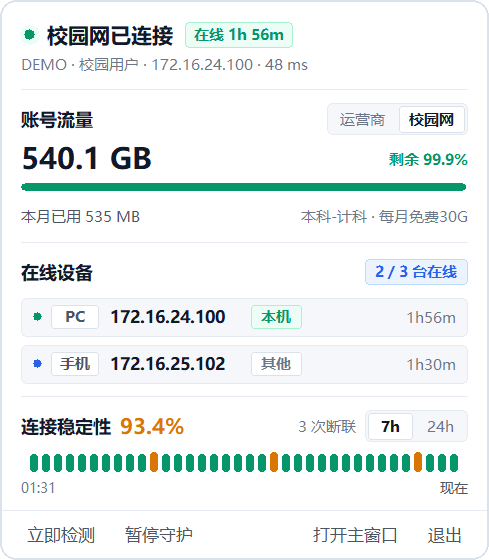
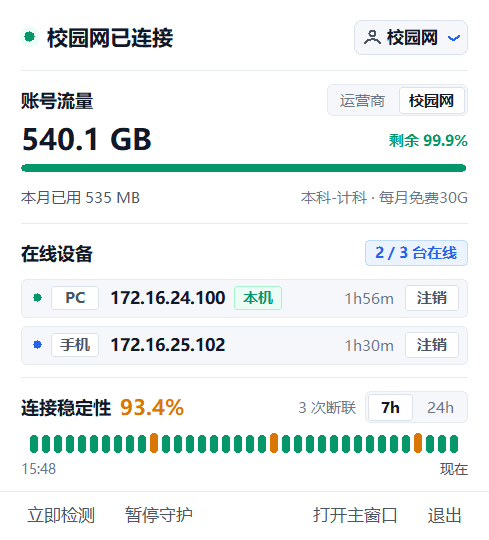
docs(v0.2.2): refresh bilingual README, concise changelog, and v0.2.2 screenshots

diff --git a/src/ui/mod.rs b/src/ui/mod.rs
@@ -269,14 +269,19 @@ impl GuardApp {
         let palette = Palette::of(ui_prefs.theme);
         theme::apply_theme(&cc.egui_ctx, &palette);
 
+        #[cfg(debug_assertions)]
+        let mock_creds = std::env::var_os("GXNU_SCREENSHOT_OUT").is_some();
+        #[cfg(not(debug_assertions))]
+        let mock_creds = false;
+
         let mut account_creds = HashMap::new();
         for acc in &deps.settings.accounts {
             account_creds.insert(
                 acc.id.clone(),
-                credentials::has_credential_for(&acc.id, &acc.student_id),
+                mock_creds || credentials::has_credential_for(&acc.id, &acc.student_id),
             );
         }
-        let legacy_cred_account = if deps.settings.accounts.is_empty() {
+        let legacy_cred_account = if !mock_creds && deps.settings.accounts.is_empty() {
             credentials::load(credentials::LEGACY_CREDENTIAL_TARGET)
                 .ok()
                 .flatten()
@@ -538,11 +543,16 @@ impl GuardApp {
     }
 
     fn refresh_account_creds(&mut self) {
+        #[cfg(debug_assertions)]
+        let mock_creds = self.qa_shot_out.is_some();
+        #[cfg(not(debug_assertions))]
+        let mock_creds = false;
+
         self.account_creds.clear();
         for acc in &self.settings.accounts {
             self.account_creds.insert(
                 acc.id.clone(),
-                credentials::has_credential_for(&acc.id, &acc.student_id),
+                mock_creds || credentials::has_credential_for(&acc.id, &acc.student_id),
             );
         }
     }

diff --git a/src/updater.rs b/src/updater.rs
@@ -448,8 +448,9 @@ fn check_for_updates_with_bases(
         {
             Ok(resp) if resp.status() == 200 => {
                 saw_network_ok = true;
-                if let Ok(body) = resp.into_string() {
-                    if let Ok(manifest) = serde_json::from_str::<LatestManifest>(&body) {
+                if let Ok(raw_body) = resp.into_string() {
+                    let body = raw_body.trim_start_matches('\u{feff}');
+                    if let Ok(manifest) = serde_json::from_str::<LatestManifest>(body) {
                         if let Some(info) = release_from_manifest(
                             current_version,
                             manifest,
@@ -458,7 +459,7 @@ fn check_for_updates_with_bases(
                         ) {
                             return Ok(Some(info));
                         }
-                        let ver = normalize_version_str(&body_version_hint(&body));
+                        let ver = normalize_version_str(&body_version_hint(body));
                         if !ver.is_empty() && !is_newer_stable_version(current_version, &ver) {
                             return Ok(None);
                         }

diff --git a/src/config.rs b/src/config.rs
@@ -38,14 +38,15 @@ impl SettingsStore {
     }
 
     pub fn load_strict(&self) -> io::Result<Settings> {
-        let text = std::fs::read_to_string(&self.path)?;
+        let raw = std::fs::read_to_string(&self.path)?;
+        let text = raw.trim_start_matches('\u{feff}');
         if !text.trim_start().starts_with('{') {
             return Err(io::Error::new(
                 io::ErrorKind::InvalidData,
                 "配置应为 JSON 对象",
             ));
         }
-        Ok(serde_json::from_str::<Settings>(&text)?.normalized())
+        Ok(serde_json::from_str::<Settings>(text)?.normalized())
     }
 
     fn stage(&self, settings: &Settings) -> io::Result<tempfile::NamedTempFile> {

diff --git a/src/tray_flyout.rs b/src/tray_flyout.rs
@@ -4024,7 +4024,6 @@ mod tests {
                 SnapshotOverlay::Dropdown => Some(HitTarget::SelectAccount(1)),
                 SnapshotOverlay::VpnModal => Some(HitTarget::ConfirmVpnSwitch),
                 SnapshotOverlay::LocalKickModal => Some(HitTarget::ConfirmLocalKick),
-                SnapshotOverlay::None if dark => Some(HitTarget::KickDevice(1)),
                 SnapshotOverlay::None => None,
             },
             tracking_mouse: false,

diff --git a/README.md b/README.md
@@ -2,17 +2,17 @@
   <img src="docs/images/app-icon.png" width="88" height="88" alt="GXNU 校园网守护助手图标">
 </p>
 <h1 align="center">GXNU 校园网守护助手</h1>
-<p align="center">广西师范大学校园网（Dr.COM）Windows 轻量托盘工具 —— 断网自动重连、流量与在线设备直查、多账号一键切换</p>
+<p align="center">广西师范大学校园网（Dr.COM）Windows 轻量托盘工具 —— 断网自动重连、流量与在线设备管理、多账号一键切换</p>
 <p align="center"><strong>简体中文</strong> · <a href="README.en.md">English</a></p>
 <p align="center">
-  <a href="https://github.com/junkaih2019/gxnu-campus-net-helper/releases/latest"><strong>⬇ 下载 Windows x64 便携版</strong></a>
+  <a href="https://github.com/junkaih2019/gxnu-campus-net-helper/releases/latest"><strong>⬇ 下载 Windows x64 单文件版</strong></a>
   &nbsp;·&nbsp; <a href="CHANGELOG.md">更新记录</a>
   &nbsp;·&nbsp; <a href="docs/CONFIGURATION.md">配置说明</a>
   &nbsp;·&nbsp; <a href="docs/ARCHITECTURE.md">架构设计</a>
   &nbsp;·&nbsp; <a href="LICENSE">MIT 许可证</a>
 </p>
 <p align="center">
-  <sub>Windows 10 / 11 x64 · 绿色单文件 · 免安装免管理员 · 支持校园网 / 电信 / 联通 / 移动出口</sub>
+  <sub>Windows 10 / 11 x64 · 绿色单文件免安装 · 支持应用内自动更新 · 支持校园网 / 电信 / 联通 / 移动出口</sub>
 </p>
 
 ---
@@ -33,7 +33,7 @@
 
 <table>
   <tr>
-    <th align="center">🖱 左键单击 · 竖版快捷浮窗</th>
+    <th align="center">🖱 左键单击 · 竖版快捷浮窗（支持切号与踢线）</th>
     <th align="center">🖱 右键单击 · 快捷菜单</th>
   </tr>
   <tr>
@@ -61,9 +61,9 @@
 | :---: | :---: |
 | [![浅色主窗口](docs/images/main-window-light.png)](docs/images/main-window-light.png) | [![深色主窗口](docs/images/main-window.png)](docs/images/main-window.png) |
 
-| 校园网额度与多终端并发视图 | 设置中心（多账号管理） |
+| 校园网额度与多终端管理视图 | 设置中心（多账号管理） |
 | :---: | :---: |
-| [![校园网额度与多终端并发视图](docs/images/main-window-campus.png)](docs/images/main-window-campus.png) | [![设置中心多账号管理](docs/images/settings-dark.png)](docs/images/settings-dark.png) |
+| [![校园网额度与多终端管理视图](docs/images/main-window-campus.png)](docs/images/main-window-campus.png) | [![设置中心多账号管理](docs/images/settings-dark.png)](docs/images/settings-dark.png) |
 
 </details>
 
@@ -71,25 +71,25 @@
 
 ## 💡 核心功能与优势
 
-- 🔄 **断网无感重连**：自动监测网络状态，睡眠唤醒、插拔网线、切换 Wi-Fi 或认证过期时秒级自动重登。
-- 📊 **流量与在线设备直查**：直连校园网自助服务，一键切换 **运营商实际吞吐 / 校园网套餐余量**，实时查看当前在线终端与本机 IP。
-- ⚡ **托盘左键快捷浮窗**：单击任务栏图标秒弹原生圆角浮窗，不开主窗口也能一屏速览流量、设备与连接稳定性。
-- 👥 **多账号一键切号**：支持保存多个校园网账号与自定义备注（如「宿舍联通」「实验室」），顶栏下拉即可自动下线并切号重连。
-- 📈 **连接稳定性时间轴**：以 `1h / 7h / 24h` 胶囊时间轴记录在线率，悬停黄格即可查看掉线时间与原因。
-- 🛡 **代理兼容 & 凭据安全**：开启 Clash / Mihomo（含 TUN 模式）照常直连认证；密码加密存入 Windows 凭据管理器，绝不明文落盘。
-- 🪶 **极轻后台常驻**：Rust 原生单文件，关闭主窗口即彻底释放图形界面内存，后台仅保留纯 Win32 托盘静默守护。
+- 🔄 **断网无感重连**：自动监测网络状态，睡眠唤醒、插拔网线、切换 Wi-Fi 或认证过期时秒级自动重登；错误原因全中文直观提示。
+- 📊 **流量与在线设备管理**：直连校园网自助服务，一键切换 **运营商实际吞吐 / 校园网套餐余量**；实时展示在线终端，支持在主界面或托盘浮窗**一键注销占线设备**。
+- ⚡ **托盘左键快捷浮窗**：单击任务栏图标秒弹原生圆角浮窗，无需打开主窗口即可切账号、看流量、踢占线设备与查看连接稳定性。
+- 👥 **多账号秒切 & 防封保护**：支持保存多个账号与自定义备注（保存前自动无损验密）；切换到「校园网」出口前自动弹出 VPN / 代理关闭提醒，防止账号被封禁。
+- 📈 **连接稳定性时间轴**：以 `1h / 7h / 24h` 胶囊时间轴记录在线率，悬停黄格即可查看掉线时刻与原因。
+- ⬆ **应用内原位自动更新**：自动检查 GitHub Release 新版本，点击即可完成 SHA-256 校验下载并原位替换重启，无损保留全部账号与自启设置。
+- 🛡 **代理兼容 & 极轻常驻**：开启 Clash / Mihomo（含 TUN 模式）照常直连认证；密码加密存入 Windows 凭据管理器；关闭主窗口即释放全部 GUI 内存，后台仅保留纯 Win32 轻守护。
 
 ---
 
 ## 🚀 快速开始
 
-1. **下载运行**：前往 [Releases](https://github.com/junkaih2019/gxnu-campus-net-helper/releases/latest) 下载最新 ZIP，解压到**固定目录**，双击运行 `GXNU 校园网守护助手.exe`。
-   > 💡 首次运行若弹出 Windows SmartScreen 提示，点击 **更多信息 → 仍要运行** 即可（个人开源单文件未附商业代码签名，可通过随包 `.sha256` 校验完整性）。
-2. **添加账号**：首次启动会自动打开 **设置 → 账号管理**，填入校园网学号、密码并选择运营商出口，点击 **保存并开始守护**。
+1. **下载运行**：前往 [Releases](https://github.com/junkaih2019/gxnu-campus-net-helper/releases/latest) 下载最新单文件 **`gxnu-campus-net-helper-v0.2.2.exe`**，放入**固定文件夹**后直接双击运行（免安装、免解压）。
+   > 💡 首次运行若弹出 Windows SmartScreen 提示，点击 **更多信息 → 仍要运行** 即可（个人开源单文件未附商业代码签名，可通过随附 `SHA256SUMS.txt` 校验完整性）。
+2. **添加账号**：首次启动会自动打开 **设置 → 账号管理**，填入校园网学号、密码并选择出口（校园网 / 电信 / 联通 / 移动），点击 **保存并开始守护**。
 3. **日常使用**：
-   - **平时直接关掉主窗口（`×`）**，程序会在托盘极轻常驻；
+   - **平时直接关闭主窗口（`×`）**，程序会在系统托盘极轻常驻；
    - **左键单击**托盘图标秒开快捷浮窗，**左键双击**打开完整主窗口，**右键单击**呼出快捷菜单；
-   - 如需开机自启，在主窗口右上角 **设置 → 监控与自启** 中勾选并保存即可。
+   - 如需开机自启，在 **设置 → 监控与自启** 中勾选「开机自动启动到托盘」并保存即可。
 
 ### 托盘状态指示
 
@@ -102,11 +102,11 @@
 ## ❓ 常见问题
 
 - **为什么账号流量有「运营商」和「校园网」两个切换项？**  
-  师大电信/联通/移动宽带出口通常不限流量，而自助服务套餐余量仅统计「校园网出口」额度。程序默认匹配你当前账号的出口视角，也可随时点击右上角一键切换。
+  师大电信/联通/移动宽带出口通常不限流量，而自助服务套餐余量仅统计「校园网」出口额度。程序默认匹配当前账号出口视角，也可随时点击右上角一键切换。
 - **开着 Clash / Mihomo 代理（或 TUN 模式）会影响自动登录吗？**  
-  不会。探测、认证与自助服务查询均绕过系统代理直连，并能穿透虚拟网卡识别真实校园网 IP。
+  在电信/联通/移动出口下不会，探测、认证与自助服务查询均绕过系统代理直连并穿透虚拟网卡识别真实校园网 IP。但使用**「校园网」出口**时请按弹窗提醒先关闭 VPN / 代理软件，避免触发学校安全监测被封号。
 - **账号密码存在哪里？如何升级或卸载？**  
-  密码由 Windows 凭据管理器加密保存，配置与日志位于 `%LOCALAPPDATA%\GXNUCampusLogin\`。升级时先退出托盘旧版再替换 EXE 即可自动继承数据；卸载时关闭开机自启、退出程序并删除 EXE 与上述目录即可。
+  密码由 Windows 凭据管理器加密保存，配置与日志位于 `%LOCALAPPDATA%\GXNUCampusLogin\`。**升级**直接点击主窗口顶栏的新版本提示（或在「设置 → 监控与自启 → 检查更新」）即可一键原位更新；**卸载**只需关闭开机自启、右键托盘退出程序，再删除 `.exe` 与上述目录即可。
 
 ---
 

diff --git a/README.en.md b/README.en.md
@@ -2,17 +2,17 @@
   <img src="docs/images/app-icon.png" width="88" height="88" alt="GXNU Campus Network Helper icon">
 </p>
 <h1 align="center">GXNU Campus Network Helper</h1>
-<p align="center">A lightweight Windows tray app for Guangxi Normal University’s Dr.COM campus network — auto-reconnect, live traffic & device sync, and 1-click multi-account switching</p>
+<p align="center">A lightweight Windows tray app for Guangxi Normal University’s Dr.COM campus network — auto-reconnect, live traffic & device management, and 1-click multi-account switching</p>
 <p align="center"><a href="README.md">简体中文</a> · <strong>English</strong></p>
 <p align="center">
-  <a href="https://github.com/junkaih2019/gxnu-campus-net-helper/releases/latest"><strong>⬇ Download Portable Windows x64</strong></a>
+  <a href="https://github.com/junkaih2019/gxnu-campus-net-helper/releases/latest"><strong>⬇ Download Portable Windows x64 (.exe)</strong></a>
   &nbsp;·&nbsp; <a href="CHANGELOG.md">Changelog</a>
   &nbsp;·&nbsp; <a href="docs/CONFIGURATION.md">Configuration</a>
   &nbsp;·&nbsp; <a href="docs/ARCHITECTURE.md">Architecture</a>
   &nbsp;·&nbsp; <a href="LICENSE">MIT License</a>
 </p>
 <p align="center">
-  <sub>Windows 10 / 11 x64 · Single portable executable · No installer or admin rights · Built with Rust</sub>
+  <sub>Windows 10 / 11 x64 · Single portable executable · Built-in auto-update · Built with Rust</sub>
 </p>
 
 ---
@@ -33,7 +33,7 @@
 
 <table>
   <tr>
-    <th align="center">🖱 Left-click · Quick Flyout</th>
+    <th align="center">🖱 Left-click · Quick Flyout (Switch Account & Sign Out Devices)</th>
     <th align="center">🖱 Right-click · Context Menu</th>
   </tr>
   <tr>
@@ -61,7 +61,7 @@
 | :---: | :---: |
 | [![Light dashboard](docs/images/main-window-light.png)](docs/images/main-window-light.png) | [![Dark dashboard](docs/images/main-window.png)](docs/images/main-window.png) |
 
-| Campus Quota & Multi-device View | Settings Center (Multi-account) |
+| Campus Quota & Multi-device Management | Settings Center (Multi-account) |
 | :---: | :---: |
 | [![Campus quota & multi-device view](docs/images/main-window-campus.png)](docs/images/main-window-campus.png) | [![Settings Center multi-account](docs/images/settings-dark.png)](docs/images/settings-dark.png) |
 
@@ -71,24 +71,24 @@
 
 ## 💡 Key Features
 
-- 🔄 **Seamless Auto-Reconnect**: Automatically detects drops and signs back in after sleep/wake, Wi-Fi switches, or session timeouts.
-- 📊 **Live Traffic & Online Devices**: Syncs read-only with GXNU Self-Service to show **Carrier throughput / Campus quota**, active terminals, and your real campus IP.
-- ⚡ **Instant Left-click Tray Flyout**: Single-click the tray icon for a native rounded flyout combining traffic, devices, and stability at a glance.
-- 👥 **1-Click Multi-Account Switch**: Save multiple accounts with custom remarks and switch atomically from the top status bar.
-- 📈 **Uptime Timeline**: Tracks `1h / 7h / 24h` connection stability in a high-density capsule strip with outage hover cards.
-- 🛡 **Proxy-Friendly & Secure**: Works cleanly alongside Clash / Mihomo (TUN mode); encrypts passwords in Windows Credential Manager.
-- 🪶 **Ultra-Light Background Daemon**: Single native Rust `.exe`; closing the window frees all UI/GPU memory while the Win32 tray monitor stays active.
+- 🔄 **Seamless Auto-Reconnect**: Automatically detects drops and signs back in after sleep/wake, Wi-Fi switches, or session timeouts, with clear human-readable diagnostics.
+- 📊 **Live Traffic & Device Sign-Out**: Syncs with GXNU Self-Service to toggle **Carrier throughput / Campus quota**, deduplicate dual-BRAS sessions, and **sign out (`注销`) occupying devices** in one click.
+- ⚡ **Instant Left-click Tray Flyout**: Single-click the tray icon for a minimalist native flyout to switch accounts, inspect traffic, sign out devices, and check stability without opening the main window.
+- 👥 **Multi-Account Switch & VPN Guard**: Save multiple accounts with non-disruptive pre-save password verification; automatically warns to close VPN/proxy software before switching to the Campus (`校园网`) exit.
+- 📈 **Uptime Timeline**: Tracks `1h / 7h / 24h` connection stability in a capsule strip with hover details for outages.
+- ⬆ **In-Place Self-Update**: Periodically checks GitHub Releases, verifies SHA-256 checksums, and replaces the `.exe` in place while preserving all credentials and startup settings.
+- 🛡 **Proxy-Friendly & Ultra-Light**: Pierces Clash / Mihomo TUN adapters for portal probes, encrypts passwords in Windows Credential Manager, and frees all UI/GPU memory when closed to the tray.
 
 ---
 
 ## 🚀 Quick Start
 
-1. **Download & Run**: Grab the latest ZIP from [Releases](https://github.com/junkaih2019/gxnu-campus-net-helper/releases/latest), extract it to a **permanent folder**, and launch `GXNU 校园网守护助手.exe`.
-   > 💡 If Windows SmartScreen appears on first launch, click **More info → Run anyway** (you can verify the `.sha256` checksum from the release page).
-2. **Add Account**: Enter your student ID, password, and carrier exit in **设置 → 账号管理 (Settings → Accounts)**, then click **保存并开始守护 (Save & Start)**.
+1. **Download & Run**: Grab **`gxnu-campus-net-helper-v0.2.2.exe`** from [Releases](https://github.com/junkaih2019/gxnu-campus-net-helper/releases/latest), place it in a **permanent folder**, and run it directly (no installer or extraction needed).
+   > 💡 If Windows SmartScreen appears on first launch, click **More info → Run anyway** (you can verify the hash against `SHA256SUMS.txt` on the release page).
+2. **Add Account**: Enter your student ID, password, and exit (`校园网` / Telecom / Unicom / Mobile) in **设置 → 账号管理 (Settings → Accounts)**, then click **保存并开始守护 (Save & Start)**.
 3. **Everyday Use**:
    - **Close the main window (`×`)** anytime to keep monitoring silently in the tray with minimal RAM;
-   - **Left-click** the tray icon for the quick flyout, **double-click** for the main window, or **right-click** for the compact menu;
+   - **Left-click** the tray icon for the quick flyout, **double-click** for the main window, or **right-click** for the context menu;
    - Enable **Start at sign-in** under **设置 → 监控与自启** if needed.
 
 ### Tray Status Indicators
@@ -102,11 +102,11 @@
 ## ❓ FAQ
 
 - **Why are there both "Carrier" (`运营商`) and "Campus" (`校园网`) traffic views?**  
-  Carrier broadband exits (Telecom / Unicom / Mobile) are unmetered, whereas the self-service package quota only applies to the Campus exit. The app defaults to your active exit and lets you toggle anytime.
+  Carrier broadband exits (Telecom / Unicom / Mobile) are unmetered, whereas the self-service package quota only applies to the Campus (`校园网`) exit. The app defaults to your active exit and lets you toggle anytime.
 - **Does it conflict with Clash / Mihomo (TUN mode)?**  
-  No. All probes, portal logins, and self-service queries bypass system proxies and pierce virtual TUN adapters to identify your real campus IP.
+  Not on Carrier exits — probes, portal logins, and self-service queries bypass system proxies and pierce virtual TUN adapters. When using the **Campus (`校园网`)** exit, please close VPN/proxy tools first as prompted to avoid campus anti-proxy account suspension.
 - **Where is my data stored, and how do I upgrade or uninstall?**  
-  Passwords are encrypted in Windows Credential Manager; config and logs live in `%LOCALAPPDATA%\GXNUCampusLogin\`. To upgrade, quit the running tray app and replace the `.exe`. To uninstall, disable auto-start, quit the app, and delete the `.exe` and data folder.
+  Passwords are encrypted in Windows Credential Manager; config and logs live in `%LOCALAPPDATA%\GXNUCampusLogin\`. **To upgrade**, click the new-version badge in the titlebar (or **设置 → 监控与自启 → 检查更新**) for 1-click in-place self-update. **To uninstall**, disable auto-start, quit from the tray, and delete the `.exe` and data folder.
 
 ---
 

diff --git a/CHANGELOG.md b/CHANGELOG.md
@@ -2,21 +2,13 @@
 
 ## v0.2.2 · 2026-11-22
 
-校园网门户与自助服务全量错误码直译、保存前无损验密、托盘浮窗一键切号、在线设备一键注销与 GitHub Release 原位自动更新。
+围绕日常高频体验打磨：支持托盘浮窗切号、在线设备一键注销、应用内自动更新与更直观的中文错误提示。
 
-- **GitHub Release 自动检查与原位覆盖自更新**：
-  - 守护进程联网状态下每 12 小时后台低频静默检查新版本（优先走静态 `latest.json` 与 `/releases/latest` 302 重定向，规避校园网共用公网 IP 触发 GitHub API 60 次/小时限流；自动适配系统代理与直连回退，支持 3 段及 4 段小版本号比对）；
-  - 发现新版时在主界面标题栏、托盘右键菜单及设置页温和提示，点击即可查看更新说明、流式下载（实时百分比进度 + 内置 SHA-256 与 PE 头完整性校验），并通过 Windows Rename-Swap 原位替换当前 `.exe` 后自动交接重启，100% 保留账号密码、桌面快捷方式与开机自启注册表路径；配套新增 `.github/workflows/release.yml` 云端自动构建发版流水线。
-- **在线设备列表重排与自助服务一键「注销」踢下线**：
-  - 修复中文 `#移动终端` 超宽压盖 IP 问题，所有终端类型统一精简为两字标签（`PC / 手机 / 平板 / 路由`）；
-  - 自动按相同 IP 合并师大双 BRAS 镜像会话，彻底消除同 IP 重复两行及 `4/3 台在线` 虚高误报；
-  - 移除原本悬空在矩形正中间的 `本机 / 占线` 徽章与整行刺眼黄底，`[本机]` 绿标改为紧贴在 IP 右侧，每行最右端统一对齐灰底 `[注销]` 按钮（悬停变红，接入 `172.16.4.2/Self/dashboard/tooffline` 强制下线接口；注销本机时弹窗二次确认并自动联动暂停重连守护，离线满额踢掉外机后自动触发本机重连）。
-- **托盘左键快捷浮窗单行极简顶栏 + 一键切号**：托盘左键浮窗顶栏重构为单行极简对齐布局（左侧连接状态 + 右侧 `[ 👤 备注 · 运营商 ⌄ ]` 账号下拉胶囊，备注与出口同名时自动去重为 `[ 👤 校园网 ⌄ ]`，仅断联/恢复时展开故障副行），无需打开主窗口即可直接下拉秒切多账号或跳转账号设置；全界面所有「校园用户」表述统一更新为「校园网」。
-- **「校园网」出口 VPN 防封禁弹窗提醒**：当用户在设置中选择「校园网」出口、保存启用校园网账号，或从主页及**托盘快捷浮窗**切换到「校园网」账号前，均会自动弹出居中防封安全确认框，提示先关闭本机 VPN、代理或加速器类软件，避免校园网账号被封禁。
-- **Dr.COM 门户错误码全量直译大白话中文**：对照师大 `yc.gxnu.edu.cn` 官方 `RadiusErrorAry` 错误码字典，将原本晦涩的英文内部码（如 `userid error2 → 密码错误`、`userid error1 → 账号不存在或运营商选错`、`Oppp error: 1/18 → 运营商宽带密码错误`、`ErrCode=85 / In use → 在线设备已达上限`、`bind userid error → 未绑定该运营商宽带` 等）全部直译为清晰的中文排查提示，并兼容翻译历史日志中的旧记录。
-- **自助服务跳回登录页 / 强制改密页智能识别**：当 `172.16.4.2/Self/login/verify` 因密码错误 `302` 重定向回登录页时，自动提取服务端 `#errorTip` 原因或直接提示「学号或密码错误，请在设置中核对密码」，彻底告别生硬的 `验证登录结果未跳转到预期页面（HTTP 302）`；遇到首次初始密码跳转改密页时亦给出明确指引。
-- **保存账号前零断网无损验密拦截**：新增保存前当场登录校验机制——若本机未联网则直连主网关 `yc.gxnu.edu.cn` 实测（验对顺便连网），若本机已联网则绝不调 `logout` 断网，改用 `172.16.4.2/Self/` 独立会话无损验密；遇到明确密码错误、账号不存在或运营商未绑定时当场红框拦截并保留已填密码供检查修改（同时提供「仍要强制保存」兜底按钮，不在校园网/需验证码/并发满额时自动放行不卡死）。
-- **体验细节优化**：自动兼容剥离学号栏误带的 `@ctc / @unicom` 等后缀；主页与托盘浮窗在自助服务认证失败时醒目展示「登录未过」黄标与原因提示；修改保存新密码或同生号切换运营商/校园网出口重连成功后，自动绕过 5 分钟缓存即时刷新最新在线会话与流量状态。
+- **托盘快捷浮窗一键切号**：左键托盘浮窗顶栏改为单行极简布局，无需打开主窗口即可直接下拉切换多账号。
+- **在线设备列表重排与一键注销**：精简终端标签解决文字遮挡，自动合并双 BRAS 重复 IP；`[本机]` 标签紧贴 IP 右侧，每行新增 `[注销]` 按钮支持将占线设备强制下线（注销本机时自动联动暂停重连守护）。
+- **应用内自动更新**：支持定期检查 GitHub Release 新版本，点击即可校验下载并原位覆盖升级，自动保留账号、密码与开机自启配置。
+- **保存前无损验密与中文错误提示**：保存账号时自动核验学号与密码（不断当前网），并将门户及自助服务的英文报错统一转为易懂的中文提示。
+- **「校园网」出口防封提醒**：全界面「校园用户」统一更名为「校园网」；选用或切换至校园网出口前弹窗提醒关闭 VPN / 代理 / 加速器，避免账号被封禁。
 
 ---
 

diff --git a/docs/CONFIGURATION.md b/docs/CONFIGURATION.md
@@ -12,6 +12,7 @@
 | `metrics.jsonl` | 最近 48 小时（上限 5000 条）通断与诊断遥测记录；首次启动自动从 `app.log` 回填历史 |
 | `traffic.json` | 按账号与日期记录的近 90 天物理网卡增量流量统计 |
 | `ui_prefs.json` | 界面偏好（浅/深色主题、缩放比例、窗口大小、是否展示主页流量卡与分隔条比例） |
+| `update_cache.json` | 自动更新最近检查时间戳与远端新版本元数据缓存 |
 | `daemon.json` | 轻守护进程运行期间的本地 IPC 端口与会话令牌（退出时自动清理） |
 
 ---
@@ -32,6 +33,8 @@
   "notify_wechat": false,
   "notify_quiet_minutes": 3,
   "monthly_quota_gb": 0,
+  "auto_check_updates": true,
+  "skipped_update_version": "",
   "accounts": [
     {
       "id": "default",
@@ -56,6 +59,8 @@
 | `confirm_failures` | integer | `1` ~ `5` | `2` | 连续失败达到此次数后才判定离线并触发自动重连 |
 | `auto_start_monitoring` | boolean | — | `false` | 启动程序后是否自动进入监控状态 |
 | `auto_boot` | boolean | — | `false` | 开机自动启动到系统托盘（以注册表 `HKCU\...\Run\GXNUCampusLoginRS` 为准） |
+| `auto_check_updates` | boolean | — | `true` | 联网状态下每 12 小时静默检查 GitHub Release 新版本 |
+| `skipped_update_version` | string | — | `""` | 用户选择跳过提醒的版本号；为空表示不跳过 |
 | `notify_toast` | boolean | — | `true` | 断网与自动恢复时弹出 Windows 系统通知 |
 | `notify_wechat` | boolean | — | `false` | 企业微信推送预留开关 |
 | `notify_quiet_minutes` | integer | `1` ~ `60` | `3` | 远程推送预留的静默时间（分钟） |
